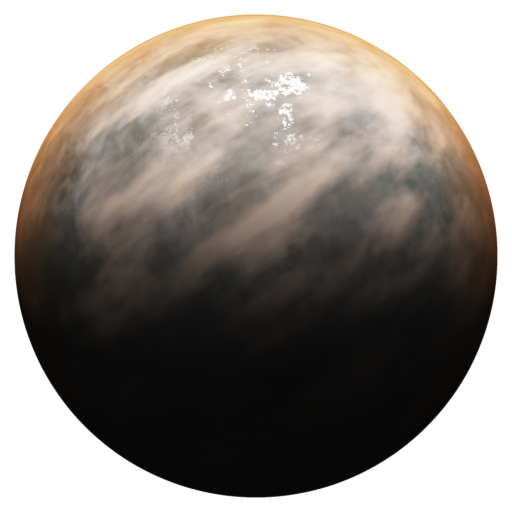
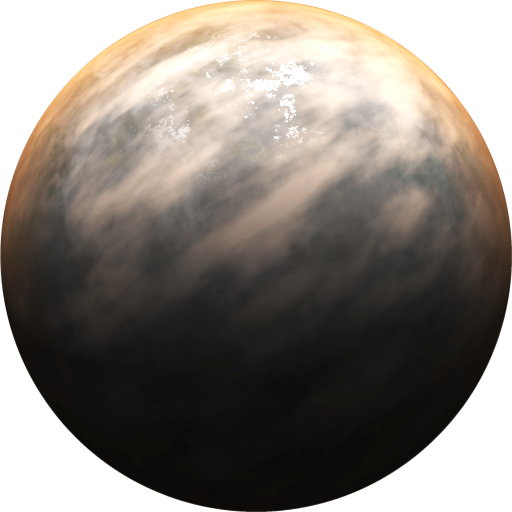
Optimize image assets more
- autocrop and adjust brightness levels of planet gamma
   - to make bottom portion slightly more visible
- crop backgrounds to 1080p
- reexport backgrounds for lower size JPEGs
- light up the background a bit

diff --git a/src/scene/BackgroundScene.ts b/src/scene/BackgroundScene.ts
@@ -1,5 +1,3 @@
-import { localized } from "../locale";
-
 export default class BackgroundScene extends Phaser.Scene {
 
     constructor() {
@@ -16,7 +14,7 @@ export default class BackgroundScene extends Phaser.Scene {
         let background = this.add.image(width / 2, height / 2, data.background);
         background.setScrollFactor(0, 0);
         background.setDisplaySize(width, height);
-        background.setTint(0x404040);
+        background.setTint(0x727272);
     }
     
     public update(_timeElapsed: number, _delta: number) {
